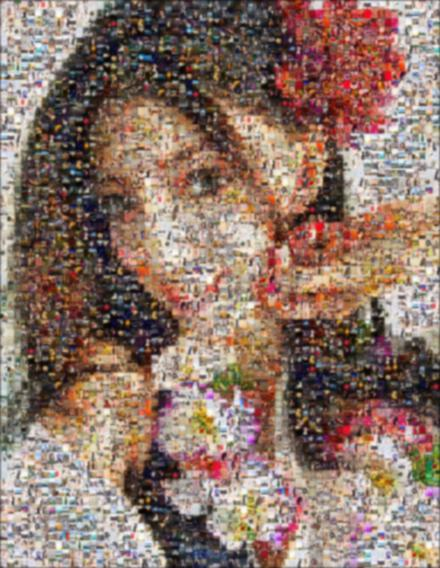
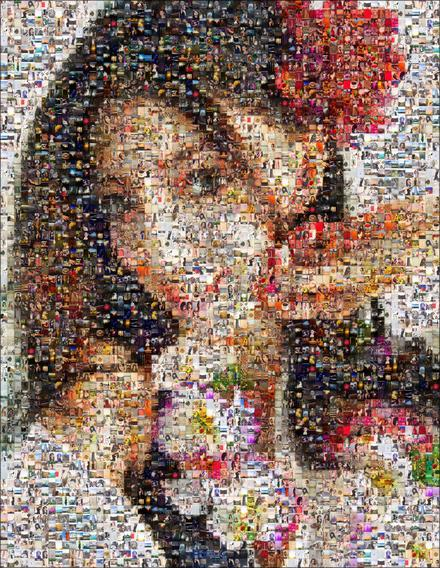
a bit of prettyfication

diff --git a/script.js b/script.js
@@ -4,16 +4,20 @@ var mosaic;
 var viewport;
 var width;
 var height;
+var tileN = 15,
+    tileM = 15;
+var tiles = new Array();
 
 function onLoaded() {
     viewport = document.querySelector(".viewport");
     viewport.addEventListener("mousedown", onMouseDown);
+    if (transitionEndEventName())
+        viewport.addEventListener(transitionEndEventName(), onTransitionEnd);
     width = viewport.offsetWidth;
     height = viewport.offsetHeight;
 
     mosaic = new Image();
     mosaic.classList.add("mosaic");
-    mosaic.classList.add("animate");
 
     var stub = document.querySelector(".stub");
     mosaic.load(stub.getAttribute("src"), function() { });
@@ -26,8 +30,39 @@ function onLoaded() {
     }
 }
 
+function transitionEndEventName () {
+    var el = document.createElement('div');
+    var transitions = {
+        'transition':'transitionend',
+        'OTransition':'otransitionend',  // oTransitionEnd in very old Opera
+        'MozTransition':'transitionend',
+        'WebkitTransition':'webkitTransitionEnd'
+    };
+
+    for (var i in transitions) {
+        if (transitions.hasOwnProperty(i) && el.style[i] !== undefined)
+            return transitions[i];
+    }
+    return null;
+}
+
+function isZoomed()
+{
+    return mosaic.classList.contains("zoom");
+}
+
+function onTransitionEnd(event)
+{
+    if (event.propertyName !== "transform")
+        return;
+    if (isZoomed())
+        return;
+    // Remove detalization tiles.
+    console.log("remove tiles!");
+}
+
 function onMouseDown(event) {
-    if (mosaic.classList.contains("zoom")) {
+    if (isZoomed()) {
         mosaic.classList.remove("zoom");
         viewport.style.removeProperty("transform");
         return;
@@ -45,4 +80,5 @@ function onMouseDown(event) {
 
     mosaic.classList.add("zoom");
     viewport.style.setProperty("transform", matrix.toCSS());
+    // Start loading detalization tiles.
 }

diff --git a/index.html b/index.html
@@ -24,8 +24,8 @@
         <div class="stub" src="mosaic/mosaic4-medium.jpg"></div>
     </div>
     <div class="social">
-        <a href="https://vk.com/anechkamorozova"><i class="fa fa-vk fa-4x"></i></a>
-        <a href="https://www.instagram.com/an_na_morozova/"><i class="fa fa-instagram fa-4x"></i></a>
-        <a href="mailto:annamorozova90@gmail.com"><i class="fa fa-envelope-o fa-4x"></i></a>
+        <a href="https://vk.com/anechkamorozova"><i class="fa fa-vk fa-3x"></i></a>
+        <a href="https://www.instagram.com/an_na_morozova/"><i class="fa fa-instagram fa-3x"></i></a>
+        <a href="mailto:annamorozova90@gmail.com"><i class="fa fa-envelope-o fa-3x"></i></a>
     </div>
 </div>

diff --git a/style.css b/style.css
@@ -27,6 +27,7 @@ body {
 @media (orientation: landscape) {
     .container {
         flex-direction: row;
+        align-items: flex-start;
     }
 }
 
